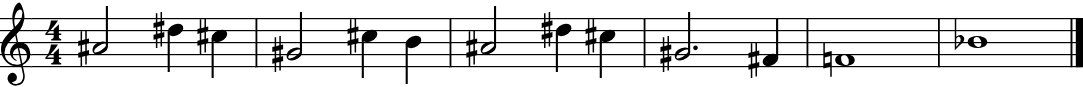
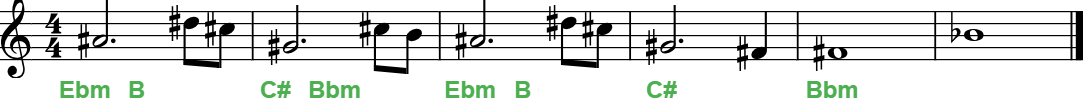
maxim4

diff --git a/index.html b/index.html
@@ -27079,7 +27079,7 @@ Ebm               B
 C#             Bbm
 Не потеряй его     и не сломай.
 
-Fm              C3
+Fm              C#
 Чтоб не нести вдоль ночных дорог
 Eb                   Cm
 Пепел любви в руках сбив ноги в кровь.